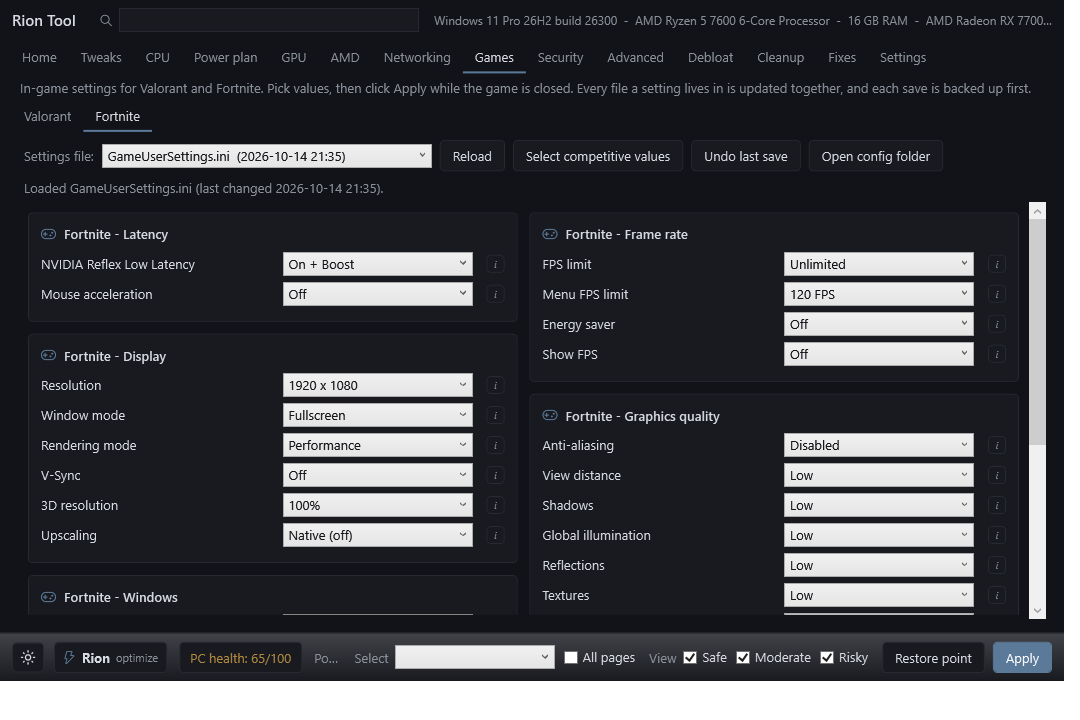
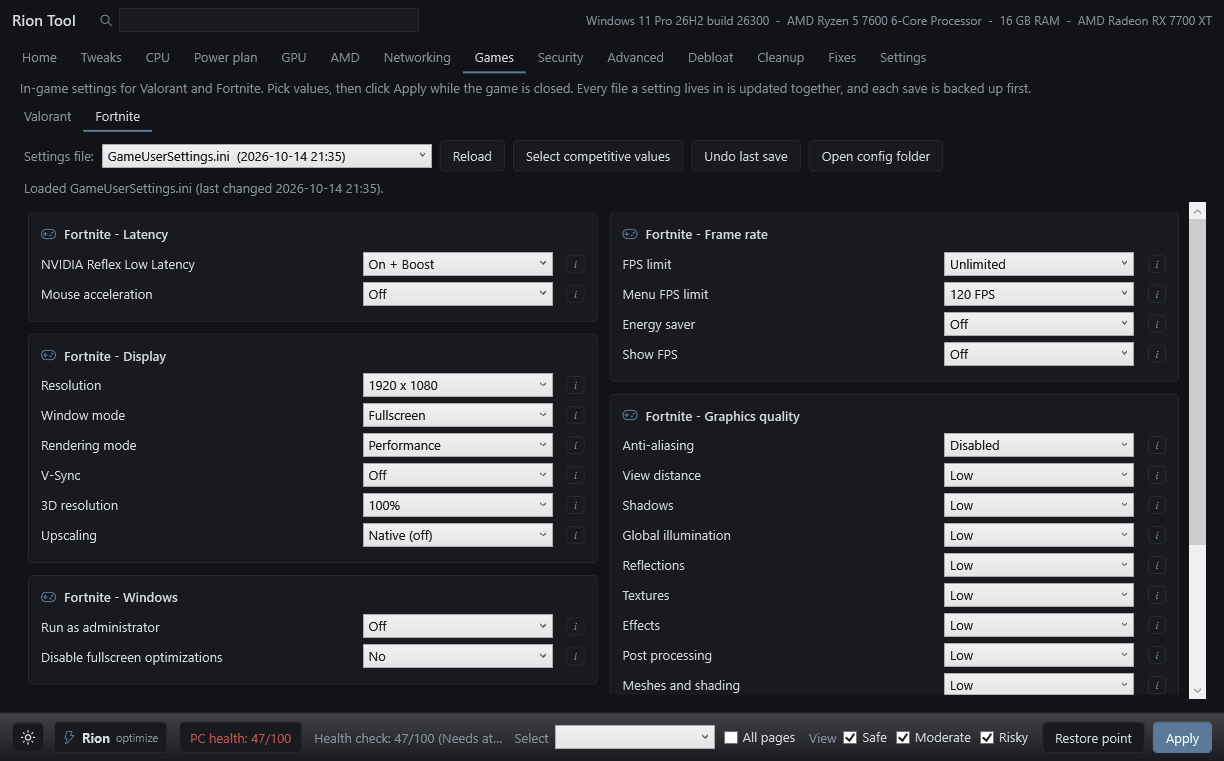
Simpler README with new screenshots

diff --git a/README.md b/README.md
@@ -1,101 +1,49 @@
 # Rion Tool
 
-A Windows tweak utility for gaming PCs. It is a single PowerShell script with a WPF interface. It reads how your PC is set up, explains what each change does and what it can break, and saves original values for reversible settings.
+A Windows tweak tool for gaming PCs. It shows what each setting does and what it can break, and every change can be undone.
 
-Made for Windows 11 (Windows 10 works for most features). Needs Windows PowerShell 5.1 and administrator rights.
+Works on Windows 11 and most of Windows 10. Needs administrator rights.
 
-![Games tab](docs/screenshots/games.png)
+![Tweaks](docs/screenshots/tweaks.png)
 
 ## Features
 
-**PC health**
-- Scores the PC out of 100 and lists findings in five groups: tweaks, drivers, security, maintenance and hardware.
-- Flags single-channel memory, missing chipset drivers (named one by one), devices with errors, failing or worn drives, old BIOS on Ryzen fTPM systems, junk files and harmful leftovers from old tweak guides.
-- Checks the services games and installers need (Windows Installer, Store install, BITS, audio, network, time, Easy Anti-Cheat, BattlEye) and the Visual C++ and DirectX runtimes, with a one-click fix for each.
-- Lists harmful and placebo registry values one by one (forced TCP window, GPU timeout changes, ASLR or SEHOP off, page file off, old IRQ and kernel values), each with its own revert.
-- Leaves out things you turned off on purpose, like a disabled Bluetooth radio, a Wi-Fi card without a driver on a wired PC, or Windows Update.
+- **PC health check** with one-click fixes for drivers, services, runtimes and harmful old tweaks.
+- **One-click optimize** that applies the Safe and Moderate gaming tweaks and cleans junk files.
+- **About 400 tweaks** for services, startup apps, privacy, AI features, power, CPU, GPU, memory, storage, input and network. Each one is labelled Safe, Moderate or Risky.
+- **AMD and NVIDIA tabs** with the driver app settings, read live from your GPU.
+- **Power plan editor** with hidden settings and Rion's power plan.
+- **Valorant and Fortnite settings editor** with a backup before every save.
+- **Cleanup, repairs and debloat**, including turning Windows Update and Defender back on.
+- **Profiles**: save your selection to a file and load it on another PC.
 
-**One-click optimize**
-- The Rion button in the bottom left ticks every Safe and Moderate gaming tweak, resets placebo tweaks and cleans junk files. You see the full list before anything changes.
-- Never turns off Defender, Windows Update, Xbox services, Bluetooth, Wi-Fi or Ethernet, and leaves VBS and anti-cheat settings alone. It can still apply Safe tweaks inside those areas, such as Wi-Fi and Ethernet power saving.
+## Download and run
 
-**Tweaks**
-- About 360 settings across services, startup apps, scheduled tasks, privacy, AI features, power, CPU scheduling, GPU, memory, storage and input.
-- Each setting is labelled Safe, Moderate or Risky and shows in red what stops working.
-- Settings that can lower FPS have a warning icon.
-- Presets: Recommended, Gamer max, Minimal and Max.
-
-**Hardware-aware pages**
-- AMD, NVIDIA and Intel tabs only show up on PCs with that hardware.
-- AMD tab: the AMD Software settings, read live from the driver. Radeon Anti-Lag, Chill, Boost, Image Sharpening, Enhanced Sync, VSync, frame rate target, anti-aliasing, anisotropic filtering, tessellation, FreeSync, VSR, GPU scaling, color depth, pixel format, GPU clocks, voltage, VRAM clock and timing, power and TDC limit, Smart Access Memory, Zero RPM and fan curve. Live GPU clocks, temperatures, board power and fan RPM. GPU and fan tuning changes undo themselves after 15 seconds unless you keep them. **Test every AMD setting** checks every value on your PC and writes a report.
-- NVIDIA tab: the NVIDIA Control Panel and NVIDIA app global settings (Low Latency Mode including Ultra, power management, texture filtering, anisotropic filtering, VSync, max and background frame rate, shader cache, CUDA sysmem fallback, Smooth Motion and the DLSS overrides and presets), written straight to the driver's global profile and read back to confirm. **Test every NVIDIA setting** checks every value on your PC and writes a report.
-- Network adapter settings match the driver you have: Intel, Realtek, Killer, Qualcomm, MediaTek and Broadcom Ethernet and Wi-Fi.
-- Power plan editor with hidden settings and a Rion plan. On desktops it copies Ultimate Performance (High performance or the active plan if unavailable); on Ryzen X3D, Intel hybrid and laptop CPUs it copies Balanced so core parking keeps working. Display and sleep timers are set to Never when plugged in; battery timers are kept.
-
-**Game settings editor**
-- Valorant and Fortnite settings in plain dropdowns: resolution, window mode, FPS caps, NVIDIA Reflex, AMD Anti-Lag 2, quality levels and more.
-- When a setting lives in more than one file, every copy is updated together. Valorant keeps its settings in RiotUserSettings.ini and GameUserSettings.ini.
-- Finds the right Valorant account folder on its own.
-- Run as administrator and Disable fullscreen optimizations for the game exe.
-- Backup before every save, and one-click undo. Saves preserve encoding, spacing and line endings; undo also removes files created by that save.
-
-**Cleanup and fixes**
-- Temp files, update caches, error reports, driver leftovers, shader caches and launcher web caches.
-- Repairs for Windows files, the Microsoft Store, Start menu search, Wi-Fi, Ethernet, Bluetooth, Xbox and anti-cheat requirements.
-- One-click buttons to turn Windows Update and Microsoft Defender back on, including blocks left by other tools.
-
-**Debloat**
-- Removes preinstalled Store apps. The Store, Photos, Settings and other core apps are always kept.
-- A "Not installed" list shows Microsoft apps missing from the PC. Tick one to reinstall it from local files or the Microsoft Store catalog.
-
-**Profiles**
-- Save every ticked setting to a .json file and load it on another PC to set it up the same way.
-
-**Search**
-- The search box at the top searches every tab, cleanup option and fix.
-
-## Getting started
-
-1. Download or clone this repository.
-2. Double-click `Run-RionTool.bat`. Accept the UAC prompt.
-3. Wait a few seconds for the scan, then start on the Home tab.
-
-To run the script directly, open PowerShell in the repository folder and run:
-
-```powershell
-powershell -NoProfile -ExecutionPolicy Bypass -File .\RionTool.ps1
-```
-
-Add `-Cleanup` to run the recommended cleanup without opening the window. It still asks for administrator rights, and the cleanup output appears in the new elevated window. When Rion opens that window through UAC, press Enter after reading the results to close it.
+1. Download the latest zip from [Releases](../../releases) and extract it.
+2. Double-click `Run-RionTool.bat` and accept the administrator prompt.
+3. Start on the Home tab.
 
 ## Undoing changes
 
-- Unticking a setting changed by Rion restores its saved original value. Settings with no saved original are left alone.
-- Original values are saved to `C:\ProgramData\RionTool` the first time a setting is changed.
-- Fixes > Undo Rion Tool changes restores recorded system settings. Use the Games tab undo button for game configuration backups.
+- Untick a setting and click Apply to put back its original value.
+- **Fixes > Undo Rion Tool changes** reverts everything at once.
 - Create a restore point first with the button on the Home tab.
-
-## Good to know
-
-- Microsoft Defender: Windows 11 blocks changes to the Defender services, even for administrators. The Defender option writes the official policies. They only take effect once Tamper Protection is off.
-- Game settings must be changed while the game is closed, because games write their settings back when they exit.
-- AMD Software and NVIDIA 3D settings are changed through the drivers' own interfaces (AMD ADLX and NVIDIA NVAPI), so the AMD and NVIDIA apps show the same values. Rows only appear for settings your GPU and driver support. NVIDIA overclocking and fan control are not offered: NVIDIA does not publish an interface for them. Intel Graphics Software settings still have to be changed in that app. See [docs/Driver-Settings-Guide.md](docs/Driver-Settings-Guide.md) for the rest.
-- NVIDIA tab: choose **Performance**, **Fortnite Potato**, or **Restore Defaults**, then **Apply profile**. The three bundled `.nip` files supply the settings; Fortnite is routed to the profile the driver associates with `FortniteClient-Win64-Shipping.exe`. Imports use merge mode and are verified afterward. Restore Defaults resets the settings in the supplied defaults file; an exact previous configuration requires the exported backup.
-- Download [NVIDIA Profile Inspector 3.0.1.14 or newer](https://github.com/Orbmu2k/nvidiaProfileInspector/releases) and extract it beside `RionTool.ps1`. It is not bundled. Import stops if the backup export fails. Generated profiles go under `C:\ProgramData\RionTool\nvidia`; repository originals are kept intact.
-- Home > Shortcuts and automation opens the bundled Microsoft Sysinternals `Autoruns.exe` after Windows validates its Microsoft signature.
-- Fixes > Gaming and anti-cheat > **Repair Xbox app and services (Microsoft Gaming Repair Tool + reinstall)** runs the bundled Microsoft-signed `GamingRepairTool.exe`, then repairs/reinstalls Xbox, Game Bar, Gaming Services and Xbox Identity Provider. It also finds the tool in a `Tools` subfolder. Rion Tool stays responsive while the repair tool window is open and continues when you close it. If the executable is absent, untrusted or fails, package repair still runs. WinGet and internet access are needed for package downloads.
-- `PowerRun.exe` and `PowerRun_x64.exe` (Sordum PowerRun 1.9, freeware from [sordum.org](https://www.sordum.org/)) are included for manual work that needs SYSTEM or TrustedInstaller rights, such as editing a protected registry key or service. Rion Tool does not use them. Do not start Rion Tool through PowerRun: as SYSTEM, the per-user (HKCU) tweaks and game settings would be written to the SYSTEM account instead of yours. PowerRun is signed with Sordum's own certificate, so Windows reports its signature as not trusted; download it from sordum.org if you want to check it yourself.
-- Install or reapply **Rion's power plan** in the Power tab to update an existing copy. New copies use Ultimate Performance, falling back to High performance or the active plan when Windows does not expose those templates. Reapplying preserves every processor setting in an existing Rion plan. New copies use Balanced instead on Ryzen X3D, Intel hybrid and laptop CPUs. Display (including lock screen), sleep, hibernate and unattended sleep idle timers are set to Never when plugged in where Windows exposes them; on PCs with a battery the battery timers are left as they were. Manual sleep, lid/power buttons, critical-battery protection, managed policy and screen savers remain separate. Measured performance depends on the hardware.
 
 ## Screenshots
 
-![Networking tab](docs/screenshots/networking.png)
+| | |
+|---|---|
+| ![AMD](docs/screenshots/amd.png) | ![Power plan](docs/screenshots/power-plan.png) |
+| ![Games](docs/screenshots/games.png) | ![Networking](docs/screenshots/networking.png) |
+| ![Fixes](docs/screenshots/fixes.png) | ![Cleanup](docs/screenshots/cleanup.png) |
+
+## Good to know
+
+- Close a game before changing its settings, because games save their settings again when they exit.
+- The NVIDIA profile buttons need [NVIDIA Profile Inspector](https://github.com/Orbmu2k/nvidiaProfileInspector/releases) next to `RionTool.ps1`.
+- PowerRun is included for manual work only. Do not start Rion Tool through it.
+- See [docs/Driver-Settings-Guide.md](docs/Driver-Settings-Guide.md) for settings you set by hand in the driver apps.
 
 ## Disclaimer
 
-This tool changes system settings. Cleanup permanently deletes files. Removed apps may need reinstallation, and drive decryption must be reversed manually with a recovery-key plan. Some older undo records lack enough information for automatic restoration. You use the tool at your own risk. Create a restore point before large changes.
-
-
-
-
-The checks parse the application and use mocked Windows operations and temporary game files. They do not launch the app or change system settings. WPF and native Windows behavior still need verification on Windows.
+This tool changes system settings and cleanup deletes files. Use it at your own risk and create a restore point before large changes.

diff --git a/docs/Driver-Settings-Guide.md b/docs/Driver-Settings-Guide.md
@@ -1,6 +1,6 @@
 # Manual driver app settings (AMD / NVIDIA / Intel)
 
-These settings live inside the graphics driver apps, so set them by hand. On NVIDIA, Rion Tool can apply the main 3D settings for you (Low Latency Mode, Power management mode, texture filtering) through NVIDIA Profile Inspector on the NVIDIA tab; the rest of this page is manual.
+These settings live inside the graphics driver apps. The AMD and NVIDIA tabs in Rion Tool can set most of them for you; use this page for the rest.
 
 **Order of importance:**
 - In-game latency tech (Reflex / Anti-Lag 2 / XeLL) is the biggest win.
